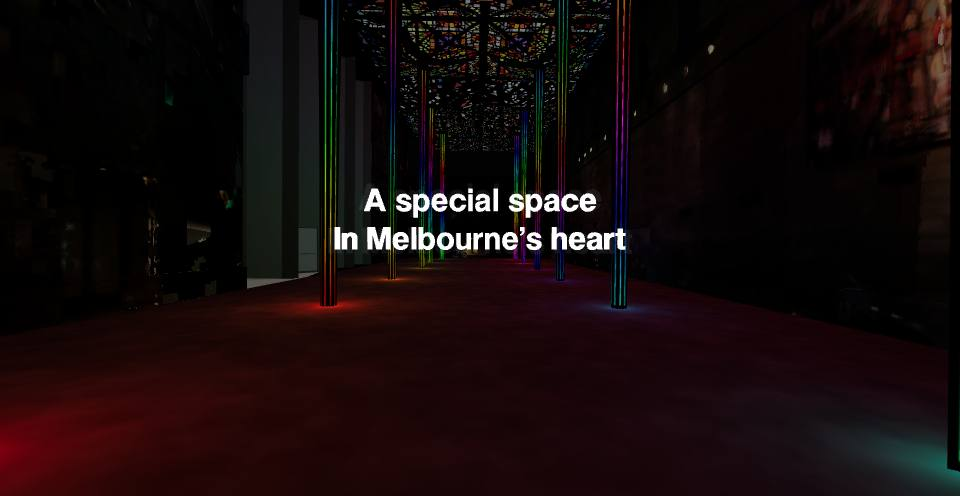
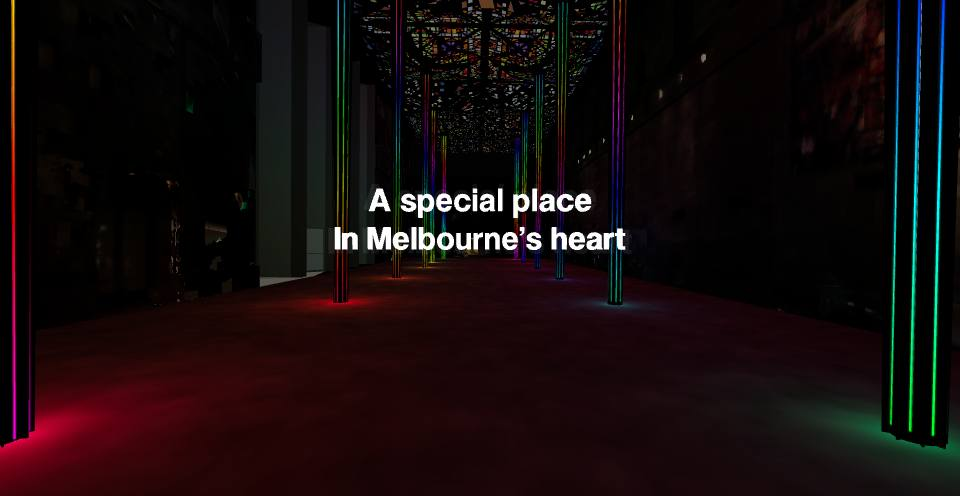
Shot 1 (Lloyd's note, V8) opens with the house lights at 0, whatever they were before: a segment can carry its own house level and starts on it without a ramp
Claude-Session: https://claude.ai/code/session_01TvFyJ7jgaVEcvXM9wy2J9o

diff --git a/index.html b/index.html
@@ -3665,7 +3665,8 @@ function tourSegments(){ const uM=EVENT.wallLen/2, c=EVENT.cols;
   // is carpet only (the stage edge at d 3.3 and the guests from d 5.4 both fall outside it);
   // shot 2 holds that carpet for 0.6 s from the same spot, then pans up and the
   // dinner is revealed, "A space for community" floating over it
-  {mode:null,     dur:16, cam:k=>{ const q=smooth(k), u=4+14.9*q, d=7.6-2.7*q, dk=smooth(Math.max(0,(k-0.8)/0.2)); const at=EP(u,1.7-0.8*dk,d), ahead=EP(u+18,1.5,d), down=EP(u+0.05,0.0,d);
+  // (Lloyd, V8) the tour opens with the house lights at 0, whatever they were before
+  {mode:null, house:0, dur:16, cam:k=>{ const q=smooth(k), u=4+14.9*q, d=7.6-2.7*q, dk=smooth(Math.max(0,(k-0.8)/0.2)); const at=EP(u,1.7-0.8*dk,d), ahead=EP(u+18,1.5,d), down=EP(u+0.05,0.0,d);
     poseAt(at,ahead.clone().lerp(down,dk)); titleStep(k*16,at,ahead,TX('rainbow-columns')); }},
   // (Lloyd, V3) the pan up takes 5 s with a double ease, and the courtyard is simply hidden for
   // this shot: plain glass, nothing outside it
@@ -3730,7 +3731,10 @@ function tourNext(now){ const T=tour; T.i++; if(T.i>=T.segs.length){ stopTour();
  const sg=T.segs[T.i]; T.t0=now; titlesOff(); frostTarget=0; if(wedding)wedding.cer=null; if(court)court.visible=document.getElementById('court').checked;
  // an event's house light comes up over 2.5 s rather than stepping (Lloyd: the carpet's brightness
  // should transition smoothly into the next scene)
- const h0=lit.house; if('mode' in sg)setEvent(sg.mode); if(lit.house!==h0){ houseRamp={from:h0,to:lit.house,t0:now,dur:2.5}; lit.house=h0; } if(sg.celebrate)fireCelebrate(); sg.cam(0);
+ const h0=lit.house; if('mode' in sg)setEvent(sg.mode); if(lit.house!==h0){ houseRamp={from:h0,to:lit.house,t0:now,dur:2.5}; lit.house=h0; }
+ // a segment with its own house level starts on it, no ramp (shot 1 opens at 0, Lloyd V8)
+ if('house' in sg){ houseRamp=null; lit.house=sg.house; const h=document.getElementById('house'); h.value=Math.round(lit.house*100); document.getElementById('houseval').textContent=h.value+'%'; }
+ if(sg.celebrate)fireCelebrate(); sg.cam(0);
  // no Celebrate button while the tour runs: the tour fires its own (Lloyd); stopTour puts it back
  fabSync(); }
 let houseRamp=null;
